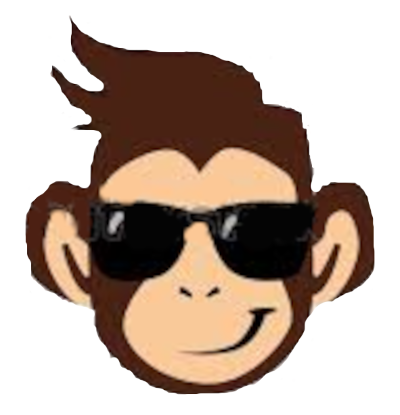
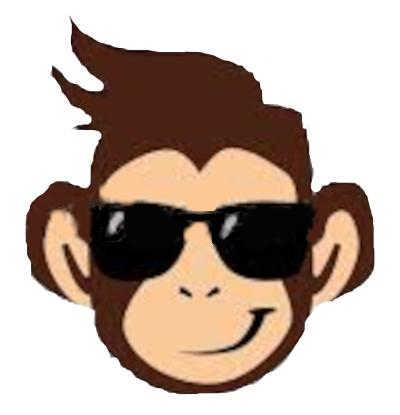
change position and size for fist and monkeyface

diff --git a/src/components/myStyles.css b/src/components/myStyles.css
@@ -26,7 +26,7 @@ ul {
 }
 
 .bananaLi {
-	list-style-image: url("../images/Banana.png");
+	list-style-image: url("../images/banana.png");
 	margin-left: 20%;
 	color: rgb(245, 211, 171);
 	font-weight: 800;
@@ -45,8 +45,17 @@ table {
 	padding-bottom: 20px;
 }
 
-th {
-	width: 200px;
+.taskTH {
+	width: auto;
+	color: rgb(245, 211, 171);
+	background: rgb(104, 52, 1);
+	border: 2px;
+	border-color: rgb(245, 211, 171);
+}
+
+
+.deadlineTH {
+	width: 100px;
 	color: rgb(245, 211, 171);
 	background: rgb(104, 52, 1);
 	border: 2px;
@@ -70,13 +79,22 @@ li {
 	list-style-image: none;
 }
 
+
 #monkeyFace {
 	width: 150px;
 	height: 150px;
 	position: absolute;
 	right: 10%;
+	top: 10%;
 	z-index: -1;
-	transform: rotate(30);
+}
+
+#fistBump {
+	height: 70px;
+	z-index: -1;
+	position: absolute;
+	right: 22%;
+	top: 30%;
 }
 
 .btn {
@@ -88,15 +106,13 @@ li {
 	background-color: orange;
 }
 
-#gorilla {
+#gorillaSurfGif {
 	height: 80px;
 }
 
-#fistBump {
-	height: 60px;
-}
 
-
+/* 
+https: //stackoverflow.com/questions/41587802/css-animation-from-left-to-right */
 /* #movingGorilla {
 	display: block;
 	position: absolute;

diff --git a/src/index.js b/src/index.js
@@ -11,7 +11,7 @@ import Stylesheet from './components/Stylesheet.js'
 import rootReducer from './reducers/index_red.js';
 import * as serviceWorker from './serviceWorker';
 import MonkeyPic from './utils/MonkeyPicture.js'
-import Gorilla from './utils/Gorilla.js'
+import Gorilla from './utils/GorillaSurf.js'
 import FistBump from './utils/Fist.js'
 
 // rootReducer is addition of all the reducers we have into one file
@@ -24,13 +24,15 @@ ReactDOM.render(
 
   // this is how you make all the states from the tore accesible in all components in the app
   // cause its now in the main 'component' and its easy to just pull data from here down 
-<Provider store= { store }>
+  <Provider store={store}>
+    
+          <FistBump />  
+          <MonkeyPic />
 
   {/* If I wish to change the font color at some point, just set to false */}
     <Stylesheet primary={true} />
-    <FistBump />  
-    <MonkeyPic />
-    <App />
+      <App />
+  
     <Gorilla />
   </Provider>,
   document.getElementById('root')

diff --git a/src/containers/AddTodo.js b/src/containers/AddTodo.js
@@ -4,11 +4,13 @@ import { addTodo } from '../actions/index_act.js';
 import monkeySound from '../utils/monkeySound.js';
 import DatePicker from 'react-datepicker';
 import "react-datepicker/dist/react-datepicker.css";
+import MonkeyFist from '../utils/MonkeyFist';
 
 
-function rotateMonkey() {
-         var img = document.getElementById('monkeyFace');
-        img.className = 'MonkeyPic';
+
+function rotateFist() {
+         var img = document.getElementById('monkeyFist');
+        img.id = 'monkeyFist';
 }
 
 
@@ -56,7 +58,8 @@ const AddTodo = ( {dispatch} ) => {
                  
                 <button id='addTodo' onClick={() =>
                    { monkeySound.play(); 
-                    rotateMonkey();
+                    // rotateFist();
+                    // unhideTH();
                     } } type="submit"> Add Todo</button>
     
             </form>

diff --git a/src/utils/GorillaSurf.js b/src/utils/GorillaSurf.js
@@ -5,7 +5,7 @@ class Gorilla extends React.Component {
     render () {
         return (
             <div id='movingGorilla'>
-                <img id='gorilla'  src={require('../images/surfing_gorilla.gif')} />
+                <img id='gorillaSurfGif'  src={require('../images/surfing_gorilla.gif')} />
                 
             </div>);
 }

diff --git a/src/components/TodoList.js b/src/components/TodoList.js
@@ -8,8 +8,8 @@ const TodoList = ({ todos, toggleTodo}) => (
     <table>
            <tbody>
         <tr>
-            <th>TASK</th>
-            <th>DEADLINE</th>
+            <th className='taskTH'>TASK</th>
+            <th className='deadlineTH'>DEADLINE</th>
             </tr>
                   <tr>
             <td>

diff --git a/src/utils/MonkeyPicture.js b/src/utils/MonkeyPicture.js
@@ -8,8 +8,7 @@ class MonkeyPic extends React.Component {
         return (
             <div>
                 <img id='monkeyFace'  src='/images/Monkey.png' />
-                 {/* <img className='monkeyFist' id='monkeyFist' src='./images/monkeyFist.png' /> */}
-
+         
             </div>);
 }
 }

diff --git a/src/utils/MonkeyFist.js b/src/utils/MonkeyFist.js
@@ -1,0 +1,15 @@
+import React from 'react';
+
+
+class MonkeyFist extends React.Component {
+
+    render () {
+        return (
+            <div>
+                <img id='monkeyFist'  src='../images/monkeyFist.png' />
+         
+            </div>);
+}
+}
+
+export default MonkeyFist;

diff --git a/src/utils/monkeySound.js b/src/utils/monkeySound.js
@@ -5,7 +5,7 @@ import Monkey_sound from '../sounds/Monkey_sound.mp3';
 const monkeySound = new UIfx(
     Monkey_sound,
     {
-        volume: 0.6,
+        volume: 0.8,
         throttleMs: 100
     }
 )
